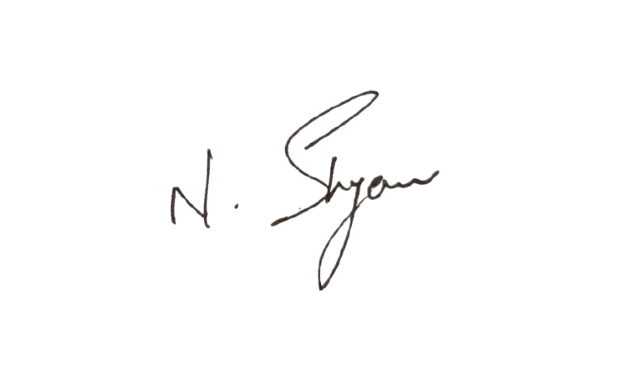
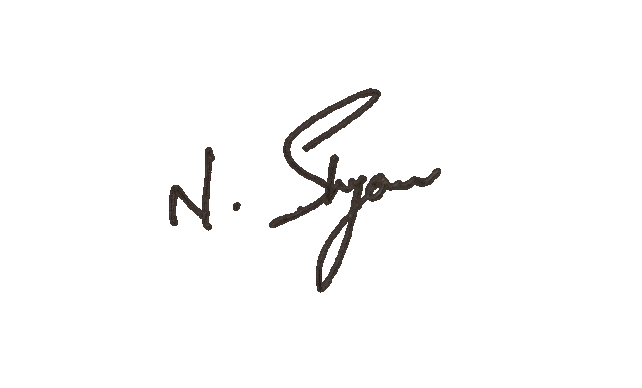
final

Changed region(s): [[0.405, 0.2165, 0.6854, 0.7423], [0.2492, 0.3711, 0.3738, 0.5876]]

diff --git a/backend/templates/certificate.html b/backend/templates/certificate.html
@@ -123,7 +123,7 @@
         <div>(Head of CSE Dept)</div>
       </div>
       <div class="signature">
-        <img src="sec_sign.png" style="height: 50px;">
+        <img src="sec_sign.png" style="height: 50px;transform: scale(1.2);">
         <div>(Secretary of ACE)</div>
       </div>
     </div>  
